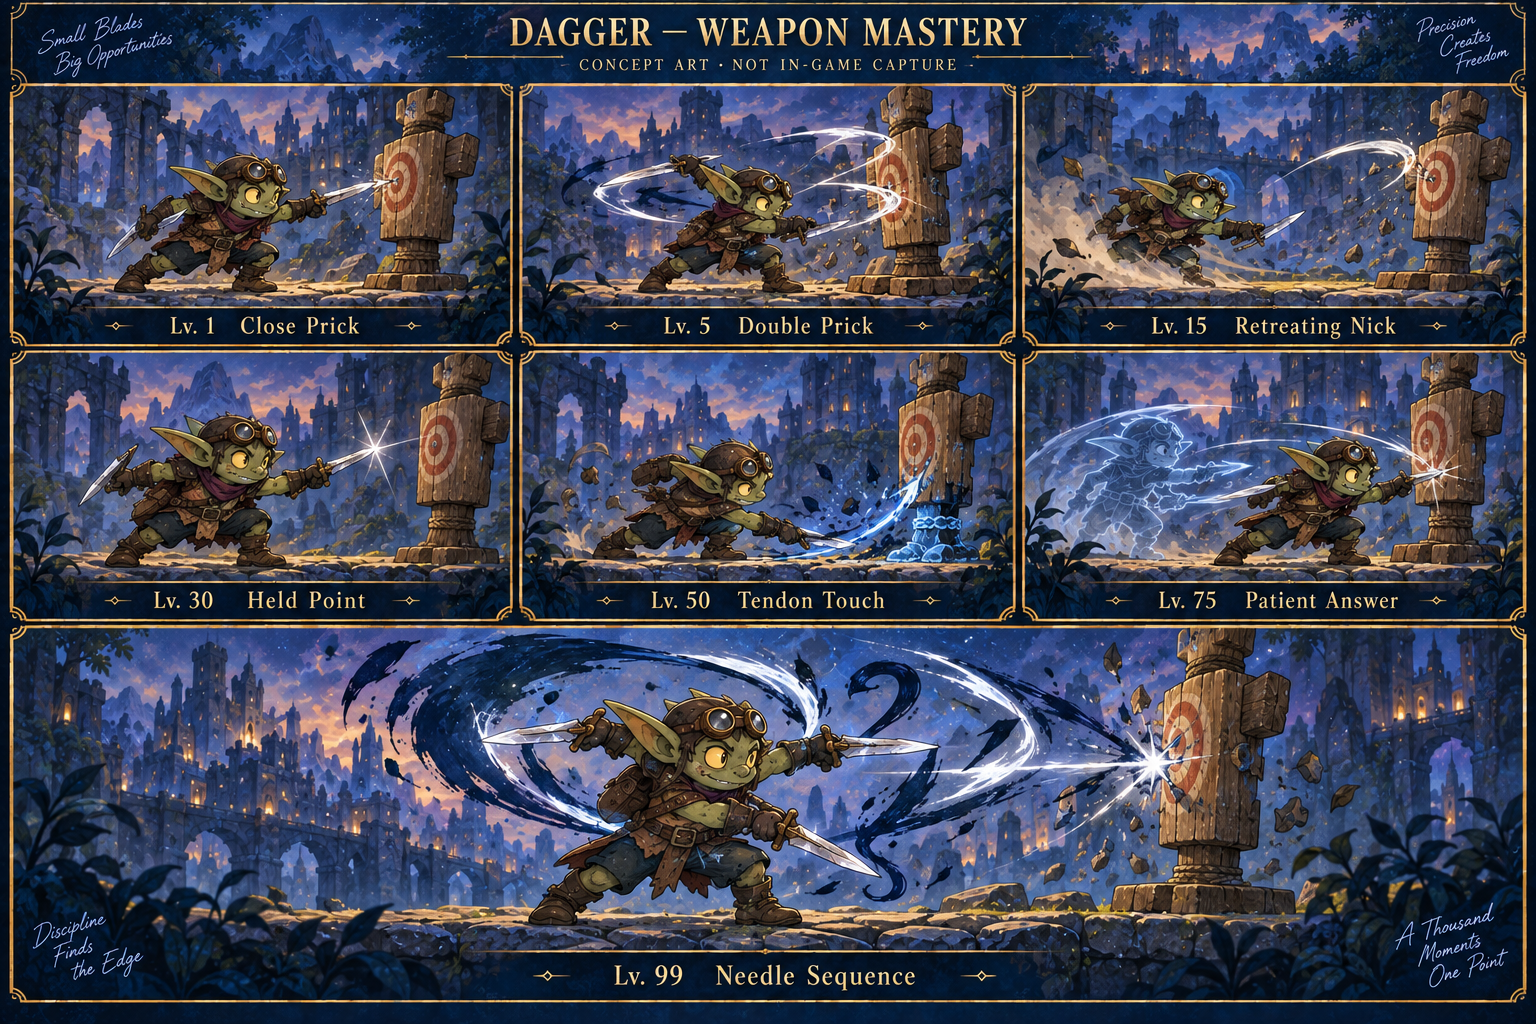
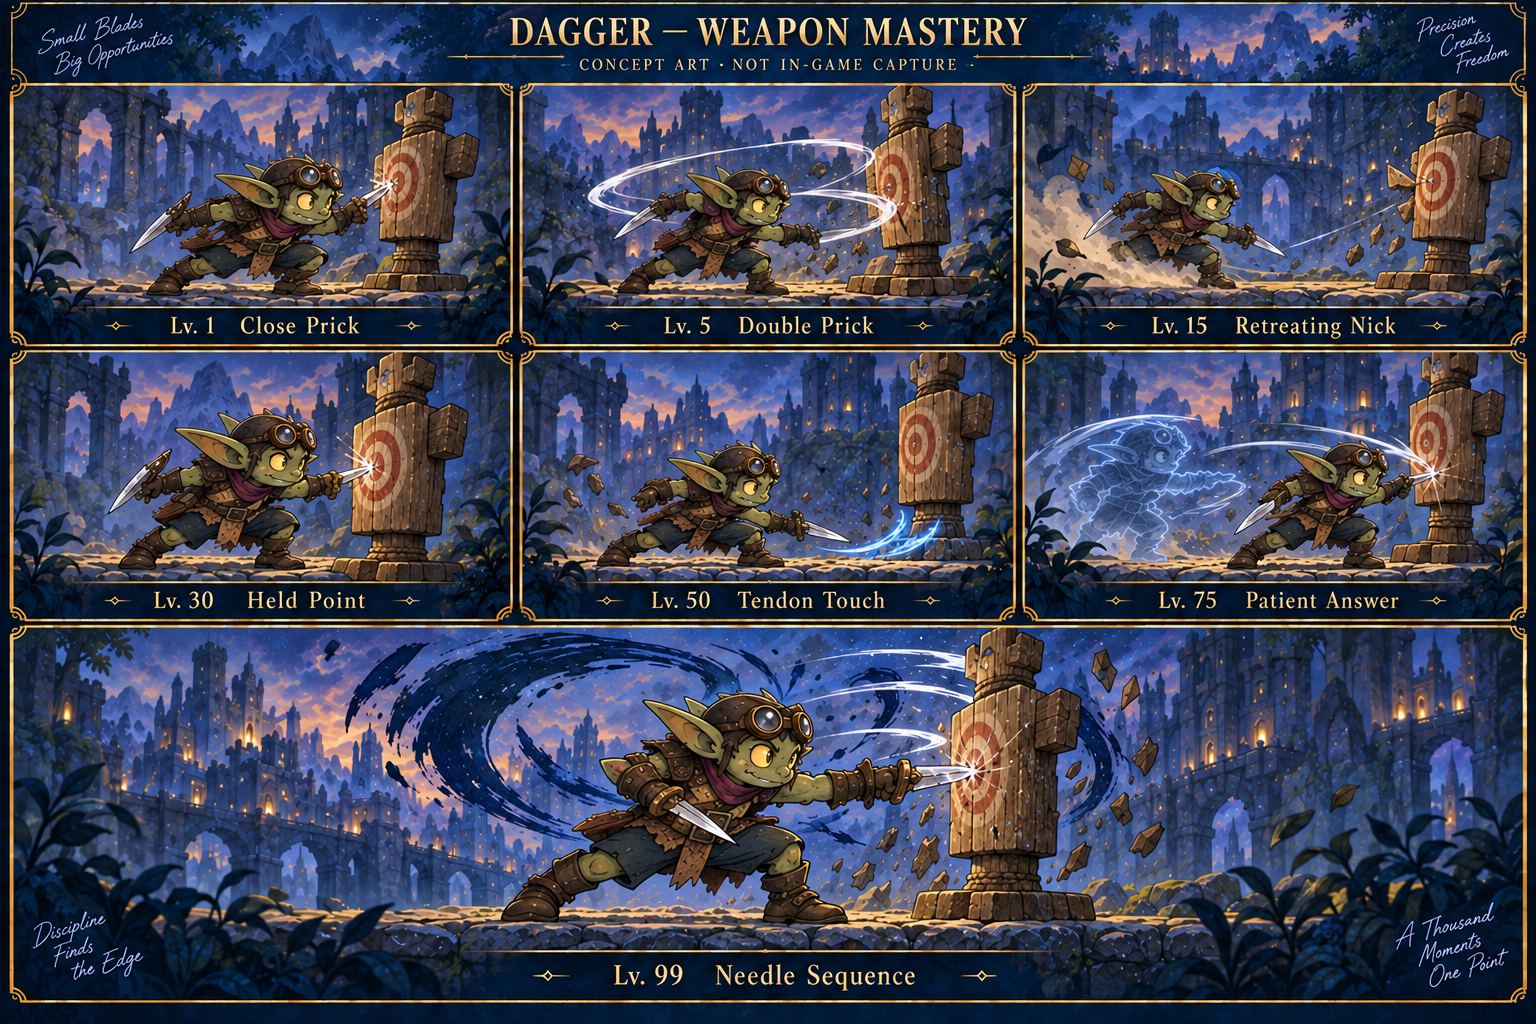
Document skill art gallery and refine dagger design

diff --git a/designs/skills/README.md b/designs/skills/README.md
@@ -1,0 +1,83 @@
+# Skill concept gallery
+
+Eight lineages and all **70 weapon-skill entries** are represented in eleven
+illustrated boards. These are concept studies, not in-game captures, animation
+atlases or implemented combat effects. The preferred painted Troll treatment
+sets the benchmark for material weight, clear silhouettes and forceful poses.
+Other families retain their own colors, materials and combat identities.
+
+## All eight lineages
+
+[Open the complete eight-lineage board](lineages-all-eight.png).
+
+Top row: Tidekin — Springwater; Humans — Second Wind; Grove Centaurs — Grove
+Renewal; Aeralith — Zephyr Veil. Bottom row: Crag Trolls — Mountain Charge;
+Deep Goblins — Siphon Dart; Sunscour — Mirage Guard; Rimeborn — Winter Halo.
+
+This is one signature illustration per lineage, **not all 32 lineage skills
+illustrated individually**. The written full kit remains in
+[DESIGN-0020](../../docs/game/0020-lineage-skill-catalog.md).
+The earlier [six-panel study](../lineage-skill-effects-concept.png) is retained
+as an archive, not the complete lineage roster or current gallery cover.
+
+## All ten weapon families
+
+Each board contains seven labelled panels: top row proficiency 1, 5, 15;
+middle row 30, 50, 75; full-width bottom panel 99. Levels are **weapon
+proficiency**, not Overall Level. Every entry includes the character, weapon
+pose and effect treatment rather than only an icon or text description.
+
+| Open visual sheet | Skills, in proficiency order |
+| --- | --- |
+| [Sword](sword-mastery.png) | Basic Slash → Quick Cut → Heavy Cut → Pommel Strike → Sweeping Edge → Guarded Riposte → Blade Rhythm |
+| [Axe](axe-mastery.png) | Hew → Committed Chop → Raking Edge → Pursuing Hew → Broad Reap → Split Decision → Headsman's Measure |
+| [Spear](spear-mastery.png) | Straight Thrust → Tip Strike → Withdrawn Point → Set the Point → Driving Lunge → Turning Shaft → Three-Point Measure |
+| [Polearm](polearm-mastery.png) | Long Sweep → Narrow End → Hook and Draw → Clearing Wheel → Low Harvest → Overhead Reach → Reaper's Circuit |
+| [Bow](bow-mastery.png) | Draw and Loose → Snap Arrow → Retreating Loose → Hampering Arrow → Forked Volley → Lofted Shot → Running Cadence |
+| [Crossbow](crossbow-mastery.png) | Shouldered Bolt → Braced Bolt → Combat Reload → Disrupting Bolt → Bodkin Bolt → Measured Pair → Siege Measure |
+| [Wand](wand-mastery.png) | Lumen Pin → Stitchlight → Needle Hex → Threadward → Unravel → Steady Thread → Returning Light |
+| [Staff](staff-mastery.png) | Spark → Firebolt → Frost Bind → Arcane Ward → Chain Spark → Steady Channel → Spell Weave |
+| [Dagger](dagger-mastery.png) | Close Prick → Double Prick → Retreating Nick → Held Point → Tendon Touch → Patient Answer → Needle Sequence |
+| [Blunt](blunt-mastery.png) | Weighted Blow → Knocking Blow → Checking Tap → Grounded Swing → Roommaker → Bracebreaker → Bellfall |
+
+[Machine-readable coverage manifest](catalog.json) lists the exact seventy
+names, proficiency levels and image paths. Sword/Staff mechanics are proposed
+in [DESIGN-0018](../../docs/game/0018-xp-and-weapon-proficiency-balance.md);
+other families in [DESIGN-0019](../../docs/game/0019-weapon-skill-catalog.md).
+The shared [visual direction](../../docs/game/0021-skill-visual-direction.md)
+defines anticipation, contact, aftermath, map reactions and accessibility.
+
+## Reading a concept sheet correctly
+
+- Ghosted poses show sequential moments, not extra bodies, summons or clones.
+  Measured Pair's small reload inset is a storyboard step, not another actor.
+- Extended streaks depict motion and effect shape, not permission to turn melee
+  into ranged damage. Use authored attack reach and collision geometry from the
+  skill catalog. Spear's mastery diagram is a sequence, not a screen-long beam.
+- Foliage curls on Hampering Arrow and decorative frost do not add roots or
+  extra damage. Lofted Shot's feather streaks are decorative, not extra arrows.
+- Stone fragments and cracked ground sell impact; platforms stay intact and
+  collision does not move. The apparent destruction in a hero panel is not a
+  gameplay promise. Early effects need reduced debris at actual play scale.
+- A pictured lineage is a presentation example, not an exclusive weapon
+  permission. All permitted lineages need their own builder-gesture adaptation;
+  these ten boards do not claim 560 lineage-by-weapon-skill animations.
+- Healing is readable and gentle, guards remain transparent, and actual enemy
+  telegraphs/platform rims take priority over decorative effects. Screen shake,
+  flashes and lighting changes have the reduced-effect options in DESIGN-0021.
+- Printed labels and static artwork are concept references, not production UI
+  assets. Rebuild names/levels as real text and separate character, VFX, scenery
+  and telegraph layers when turning these into runtime assets.
+
+## Production handoff
+
+Keep the existing builder rigs and equipment constraints: Trolls have no
+scarves, Centaurs have one coherent horse body, Crossbows fire horizontally from
+the shoulder, Staff casts point forward, and a two-handed weapon stays one
+weapon with the appropriate grip. Use separate anticipation/release/contact/
+aftermath frames; a beautiful impact still needs a valid attack pose.
+
+The boards establish an art direction. Production still requires motion tests,
+final socket placement, actual-size readability, exact hit-area matching,
+resource/animation timing and crowded-arena performance checks. No runtime or
+save data changed in this illustration pass.

diff --git a/docs/game/0021-skill-visual-direction.md b/docs/game/0021-skill-visual-direction.md
@@ -2,7 +2,7 @@
 id: DESIGN-0021
 title: Skill Spectacle and Reactive Environments
 status: proposed-art-direction
-updated: 2026-09-10
+updated: 2026-09-11
 ---
 
 # Powerful skills in a living, painted world
@@ -20,8 +20,16 @@ Visual references: `light-lineages.png`, `dark-lineages.png`, and
 painted edges, warm materials, appealing proportions and legible equipment.
 Do not replace them with realistic explosions or uniformly neon particle clouds.
 
-Generated art-direction board:
-[Lineage skill effect studies](../../designs/lineage-skill-effects-concept.png).
+Current art-direction gallery:
+[All eight lineages and all seventy weapon skills](../../designs/skills/README.md).
+The [complete eight-lineage board](../../designs/skills/lineages-all-eight.png)
+replaces the six-panel study as the roster reference. Ten additional boards
+show seven skills per weapon family. Use the original Troll panel's painted
+weight and material shapes as the shared rendering benchmark, without making
+every family an earth-effect reskin.
+
+The original [six-panel study](../../designs/lineage-skill-effects-concept.png)
+is retained as an archive.
 It establishes materials, silhouettes and atmosphere, not exact gameplay
 geometry: Winter Halo must be centered on its caster in production, and
 Cyclone's footprint must match its authored radius. Mirage silhouettes are
@@ -225,10 +233,11 @@ warnings and authority. Cosmetic skills do not silently introduce any of those.
 
 ## First deliverables and acceptance
 
-1. A concept sheet establishing six signature effects against the existing
-   painted lineage references: Troll Mountain Charge, Rimeborn Winter Halo,
-   Aeralith Cyclone, Centaur Grove Renewal, Sunscour Mirage Guard and Goblin
-   Siphon Dart. It is visual exploration, not a screenshot of implemented play.
+1. The concept gallery now includes all eight lineages, including Tidekin
+   Springwater and Human Second Wind, plus ten seven-panel weapon sheets.
+   It is visual exploration, not a screenshot of implemented play. The lineage
+   board has one signature per lineage, not individual illustrations of all
+   thirty-two innate abilities.
 2. Animated in-game proofs: one physical impact (Boulder Fist → Mountain
    Charge), one projectile (Ice Shard) and one signature (Winter Halo). Reuse
    these tested presentation patterns when expanding the remaining catalogs.
@@ -240,5 +249,6 @@ warnings and authority. Cosmetic skills do not silently introduce any of those.
    no drift between moving platform art and collision.
 
 The written visual catalog covers all ten weapon ladders and all eight lineage
-kits. The concept sheet illustrates a selected direction; it is not a complete
+kits. The concept gallery illustrates every weapon entry and one signature per
+lineage; it is not a complete
 sprite atlas, animation pack, effects implementation or measured performance test.
